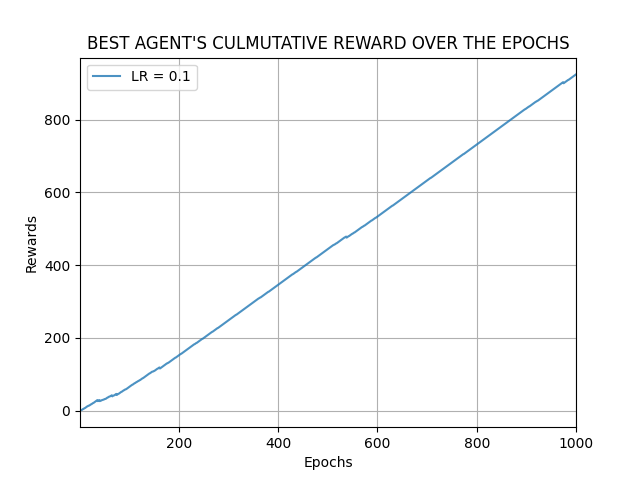
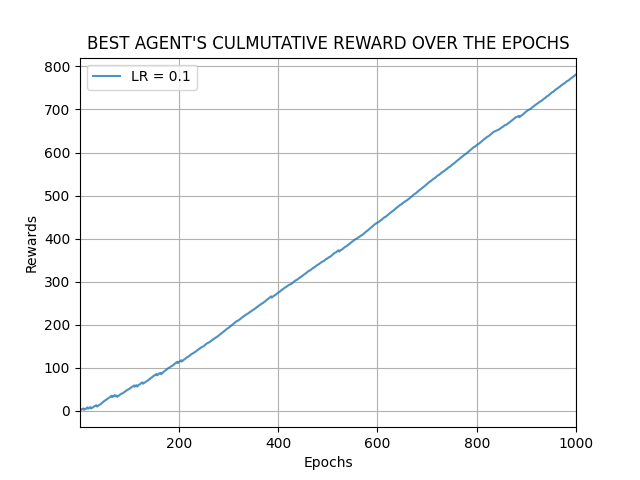
Little modifications on the rewards and merging with the 'feature-robot' branch

diff --git a/recycle-robot/main.py b/recycle-robot/main.py
@@ -38,7 +38,7 @@ def main():
 
         print(f'\033[91m{extra_message}\033[m')
 
-        resp = input('\033[97mWould you like to digit your the values of alpha and beta? (Y/N): \033[m')
+        resp = input('\033[97mWould you like to digit your the values of alpha and beta? (Y/N): \033[m').strip().upper()[0]
 
         if resp == 'N':
             break
@@ -80,16 +80,17 @@ def main():
     print('-'*20)
     print('\033[91mBEST AGENT\033[m')
     print(f'Learning Rate: {best_agent.learning_rate}')
-    print('Numeric Preferences:')
-    print(best_agent.numeric_preferences)
 
-    print('-'*20)
     A = np.exp(best_agent.numeric_preferences)
     P = A.copy()
     P[0,:2] = A[0,:2]/A[0,:2].sum()
     P[1] = A[1] / A[1].sum()
     P[0,2] = 0
 
+    print("Best policy:")
+    print(P)
+
+    print('-'*20)
 
     # Best Policy Heatmap
     Plots.plot_policy_heatmap(P)

diff --git a/recycle-robot/src/ambient.py b/recycle-robot/src/ambient.py
@@ -17,7 +17,7 @@ class Ambient:
 
         self.rewards = {
             "search": 1,
-            "wait": .4,
+            "wait": .5,
             'recharge': 1,
             "discharge": -3
         }
